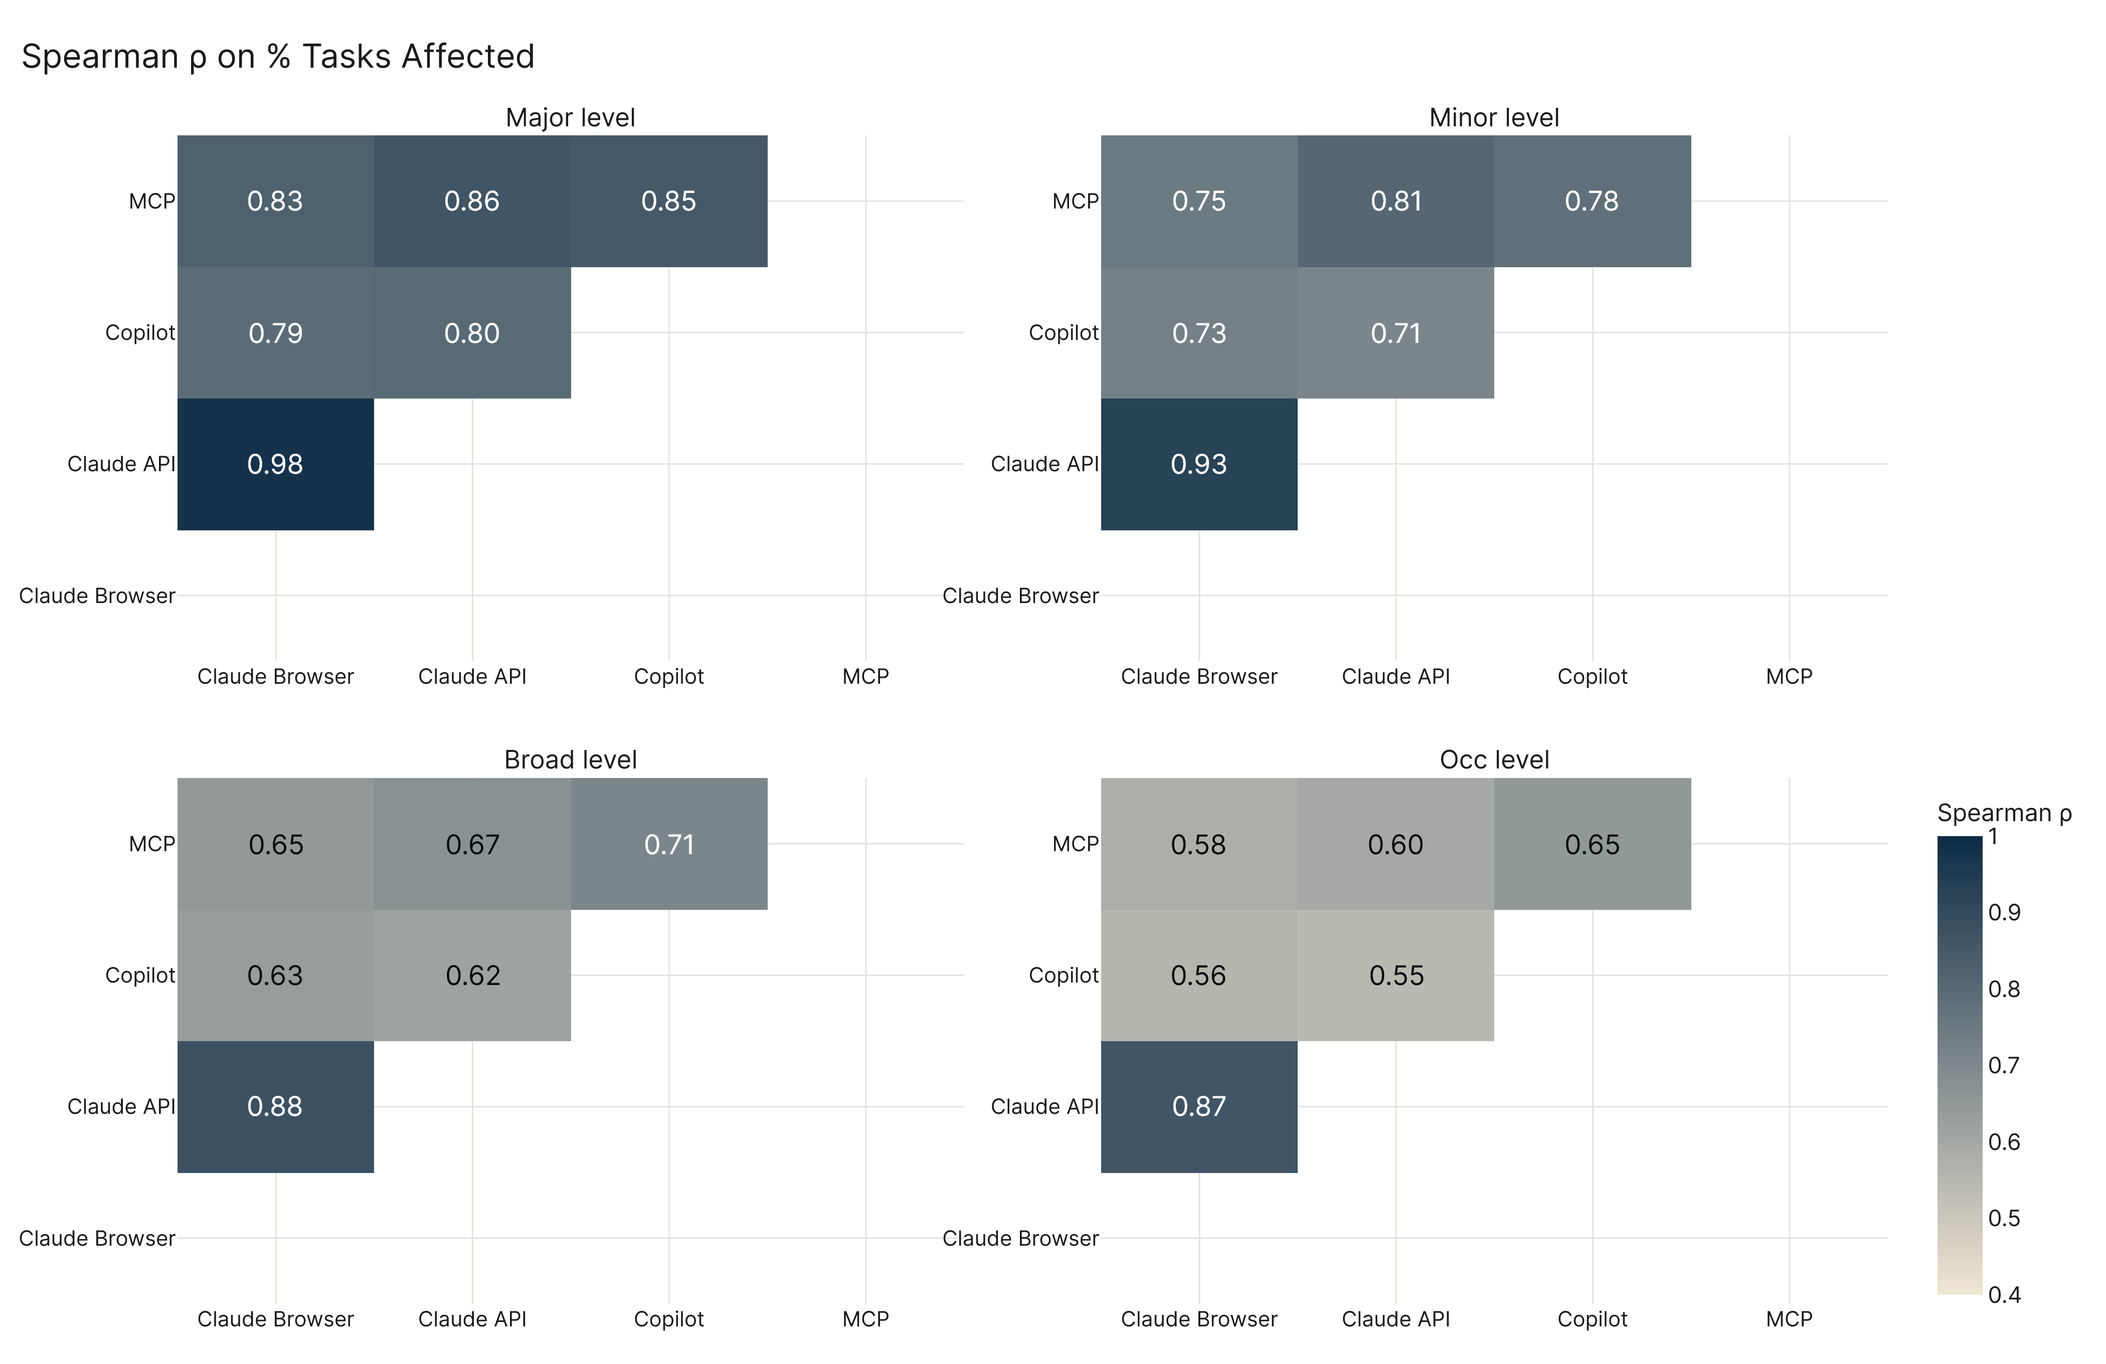
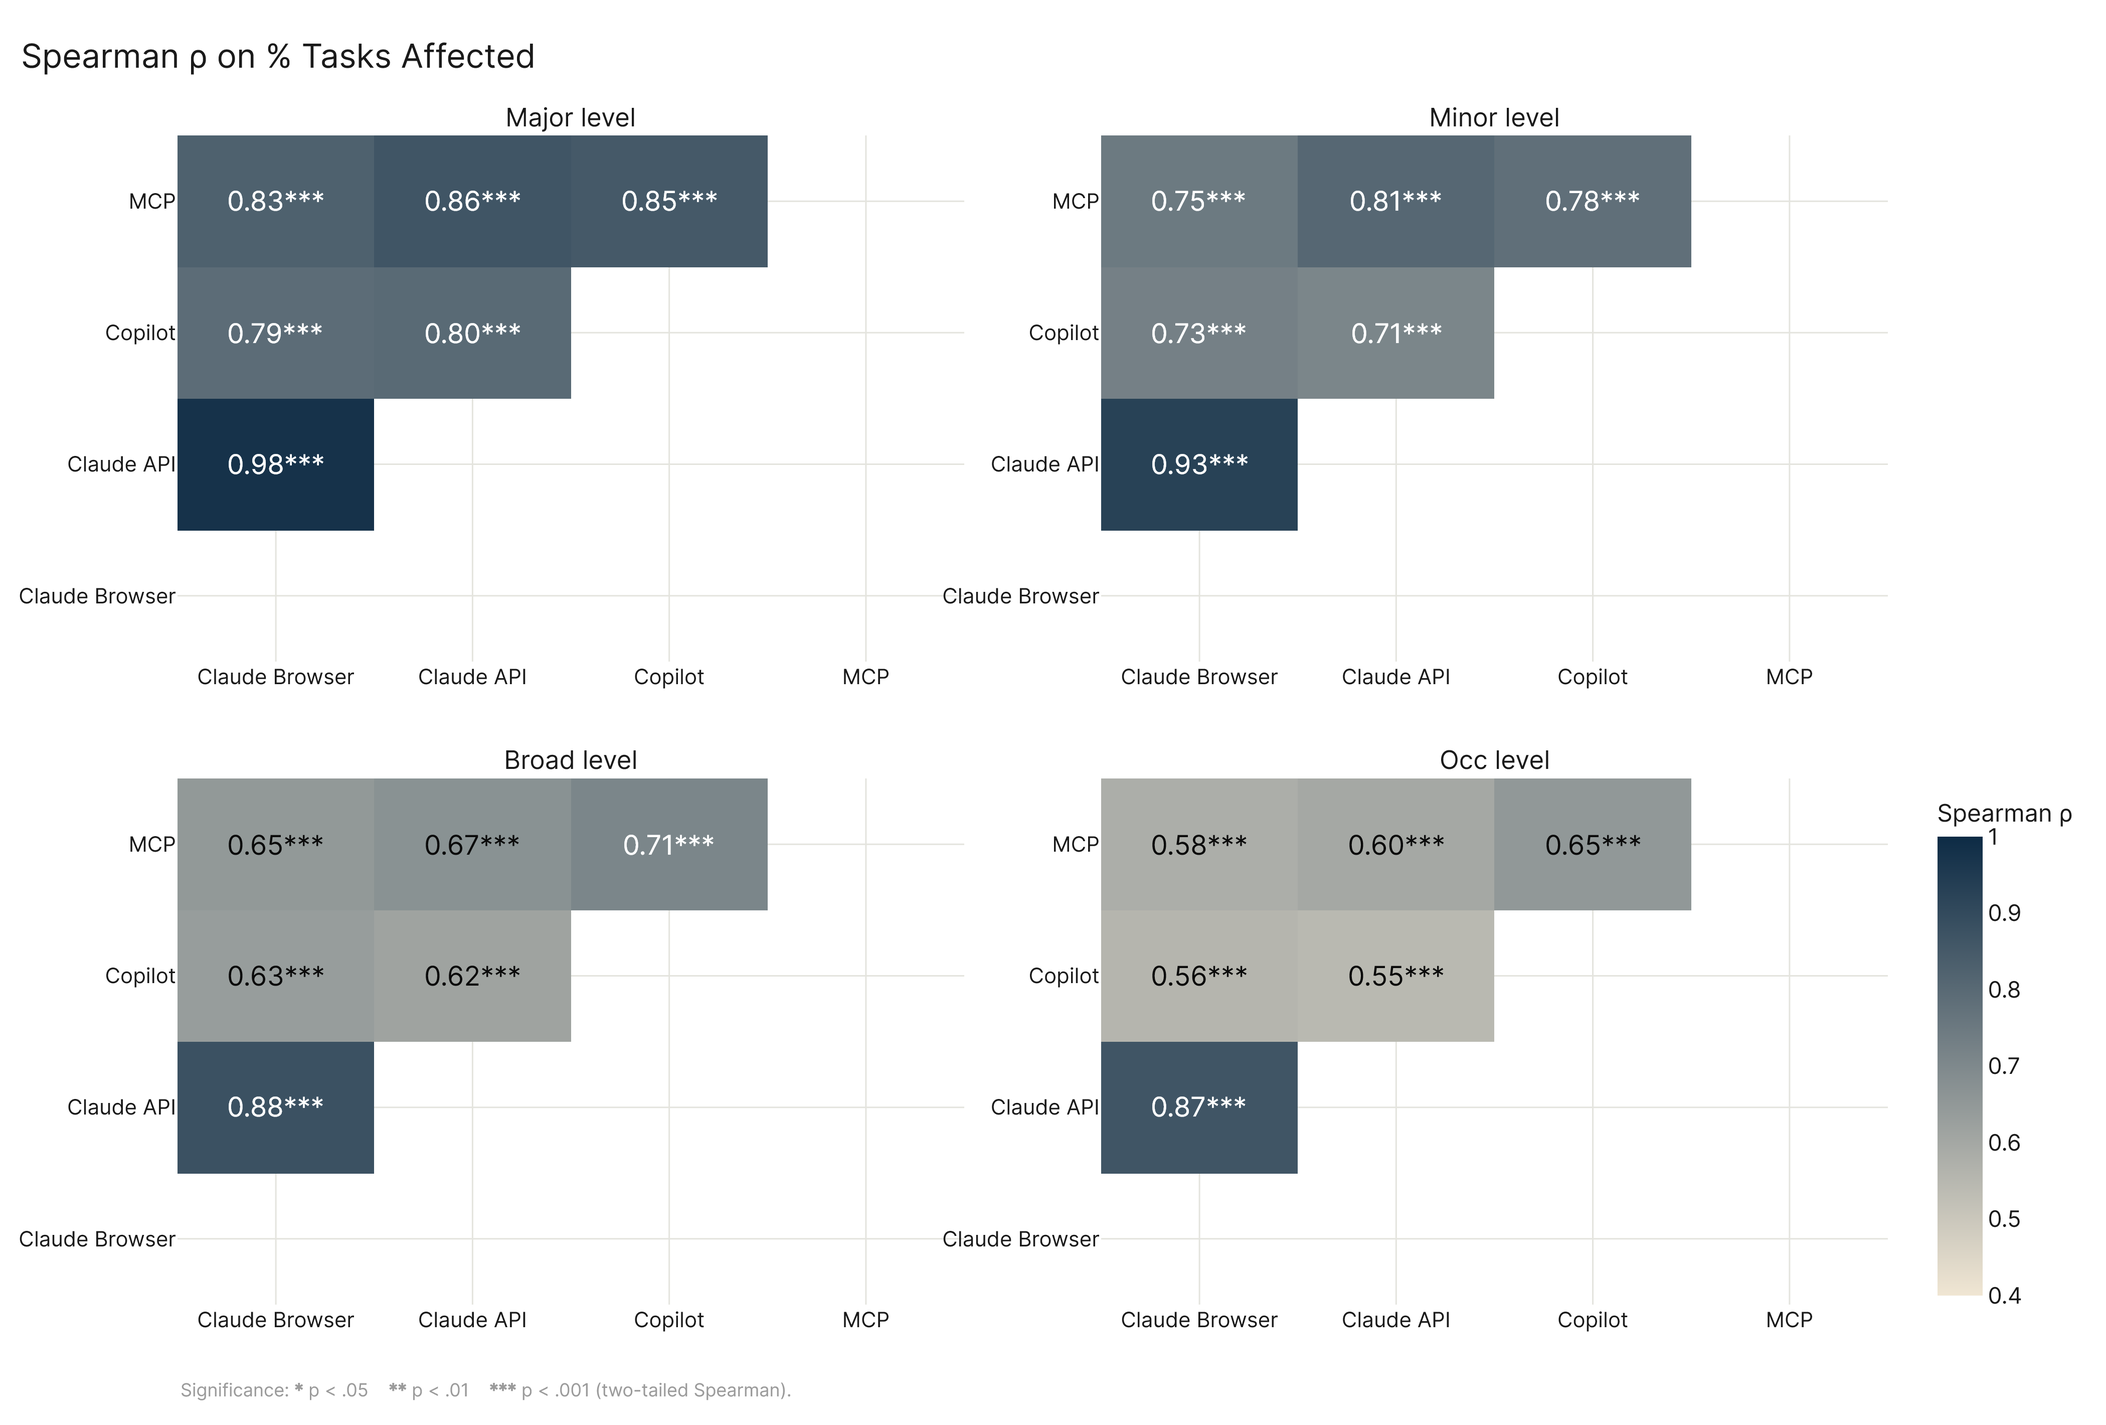
paper: add p-value asterisks to part_1 convergence charts; register external_indices_correlation exploratory
Cells in convergence.png and convergence_external.png now show significance
asterisks (* p<.05, ** p<.01, *** p<.001, two-tailed Spearman) alongside
the rho. Adds a footnote with the legend. Notable at the major level (n=22)
where the threshold for p<.001 is roughly rho=0.65 — every cell in part_1
clears it but the convention is now load-bearing for related analyses with
weaker correlations.

Also registers a new exploratory sub-folder external_indices_correlation/
in ANALYSIS_PRD and ANALYSIS_ARCHITECTURE: 9 internal sources/configs vs.
all 16 prior AI/automation indices in Comparison of Indices.csv at four
SOC levels, with diverging color scale (negative correlations are real
signal — pre-LLM physical-automation indices like Webb Robot and Frey-
Osborne anti-correlate strongly with our LLM-era measures). Folder itself
is gitignored per exploratory convention.

diff --git a/analysis/paper/results/part_1/run.py b/analysis/paper/results/part_1/run.py
@@ -158,6 +158,26 @@ def _copy_fig(results: Path, figures: Path, name: str) -> None:
     shutil.copy(results / "figures" / name, figures / name)
 
 
+def _stars(p: float) -> str:
+    """Standard significance asterisks for two-tailed correlation p-values."""
+    if not np.isfinite(p):
+        return ""
+    if p < 0.001:
+        return "***"
+    if p < 0.01:
+        return "**"
+    if p < 0.05:
+        return "*"
+    return ""
+
+
+SIG_FOOTNOTE: str = (
+    "Significance: <b>*</b> p &lt; .05  &nbsp; "
+    "<b>**</b> p &lt; .01  &nbsp; "
+    "<b>***</b> p &lt; .001 (two-tailed Spearman)."
+)
+
+
 # ─────────────────────────────────────────────────────────────────────────
 # Chart 1: Overview
 # ─────────────────────────────────────────────────────────────────────────
@@ -262,9 +282,11 @@ def build_convergence(results: Path, figures: Path) -> None:
 
     corr_records: list[dict] = []
     matrices: dict[str, np.ndarray] = {}
+    pmatrices: dict[str, np.ndarray] = {}
 
     for level in AGG_LEVELS:
         mat = np.full((n, n), np.nan)
+        pmat = np.full((n, n), np.nan)
         for i in range(n):
             for j in range(i):
                 si = source_data[CORR_ORDER[i]][level]
@@ -274,6 +296,7 @@ def build_convergence(results: Path, figures: Path) -> None:
                     continue
                 rho, pval = stats.spearmanr(merged.iloc[:, 0], merged.iloc[:, 1])
                 mat[i, j] = rho
+                pmat[i, j] = pval
                 corr_records.append({
                     "level": level,
                     "source_a": CORR_LABELS[i],
@@ -281,8 +304,10 @@ def build_convergence(results: Path, figures: Path) -> None:
                     "rho": round(float(rho), 3),
                     "p_value": round(float(pval), 6),
                     "n": len(merged),
+                    "stars": _stars(pval),
                 })
         matrices[level] = mat
+        pmatrices[level] = pmat
 
     save_csv(pd.DataFrame(corr_records), results / "spearman_by_level.csv")
 
@@ -297,6 +322,7 @@ def build_convergence(results: Path, figures: Path) -> None:
         row = idx // 2 + 1
         col = idx % 2 + 1
         mat = matrices[level]
+        pmat = pmatrices[level]
 
         fig.add_trace(
             go.Heatmap(
@@ -319,7 +345,8 @@ def build_convergence(results: Path, figures: Path) -> None:
             row=row, col=col,
         )
 
-        # Add cell annotations with conditional text color
+        # Add cell annotations with significance asterisks (sample size at
+        # major level is small — n=22 — so even rho=0.7 isn't always significant)
         for i in range(n):
             for j in range(n):
                 val = mat[i, j]
@@ -328,7 +355,7 @@ def build_convergence(results: Path, figures: Path) -> None:
                 txt_color = "white" if val >= 0.70 else PAPER_PALETTE["text_dark"]
                 fig.add_annotation(
                     x=CORR_LABELS[j], y=CORR_LABELS[i],
-                    text=f"{val:.2f}",
+                    text=f"{val:.2f}{_stars(pmat[i, j])}",
                     showarrow=False,
                     font=dict(size=HEATMAP_TEXT_FS, family=FONT_FAMILY, color=txt_color),
                     xref=f"x{idx + 1}" if idx > 0 else "x",
@@ -339,8 +366,17 @@ def build_convergence(results: Path, figures: Path) -> None:
         fig,
         "Spearman ρ on % Tasks Affected",
         width=PAPER_W,
-        height=PAPER_H + 120,
-        margin=dict(l=20, r=130, t=90, b=40),
+        height=PAPER_H + 160,
+        margin=dict(l=20, r=130, t=90, b=80),
+    )
+
+    fig.add_annotation(
+        text=SIG_FOOTNOTE,
+        xref="paper", yref="paper",
+        x=0, y=-0.06, xanchor="left", yanchor="top",
+        showarrow=False,
+        font=dict(size=ANNOT_FS, family=FONT_FAMILY,
+                  color=PAPER_PALETTE["muted"]),
     )
 
     # Style subplot titles — bigger font
@@ -501,9 +537,11 @@ def build_convergence_external(results: Path, figures: Path) -> None:
 
     corr_records: list[dict] = []
     matrices: dict[str, np.ndarray] = {}
+    pmatrices: dict[str, np.ndarray] = {}
 
     for level in AGG_LEVELS:
         mat = np.full((n_rows, n_cols), np.nan)
+        pmat = np.full((n_rows, n_cols), np.nan)
         for i, skey in enumerate(CORR_ORDER):
             ours = source_data[skey][level]
             for j, ext_key in enumerate(ext_keys):
@@ -516,6 +554,7 @@ def build_convergence_external(results: Path, figures: Path) -> None:
                     continue
                 rho, pval = stats.spearmanr(merged["x"], merged["y"])
                 mat[i, j] = rho
+                pmat[i, j] = pval
                 corr_records.append({
                     "level":      level,
                     "our_source": our_labels[i],
@@ -523,8 +562,10 @@ def build_convergence_external(results: Path, figures: Path) -> None:
                     "rho":        round(float(rho), 3),
                     "p_value":    round(float(pval), 6),
                     "n":          len(merged),
+                    "stars":      _stars(pval),
                 })
         matrices[level] = mat
+        pmatrices[level] = pmat
 
     save_csv(pd.DataFrame(corr_records), results / "spearman_external_by_level.csv")
 
@@ -539,6 +580,7 @@ def build_convergence_external(results: Path, figures: Path) -> None:
         row = idx // 2 + 1
         col = idx % 2 + 1
         mat = matrices[level]
+        pmat = pmatrices[level]
 
         fig.add_trace(
             go.Heatmap(
@@ -569,7 +611,7 @@ def build_convergence_external(results: Path, figures: Path) -> None:
                 txt_color = "white" if val >= 0.70 else PAPER_PALETTE["text_dark"]
                 fig.add_annotation(
                     x=ext_labels[j], y=our_labels[i],
-                    text=f"{val:.2f}",
+                    text=f"{val:.2f}{_stars(pmat[i, j])}",
                     showarrow=False,
                     font=dict(size=HEATMAP_TEXT_FS, family=FONT_FAMILY, color=txt_color),
                     xref=f"x{idx + 1}" if idx > 0 else "x",
@@ -580,8 +622,17 @@ def build_convergence_external(results: Path, figures: Path) -> None:
         fig,
         "Spearman ρ — Our Sources vs. External Benchmarks",
         width=PAPER_W,
-        height=PAPER_H + 120,
-        margin=dict(l=20, r=130, t=90, b=40),
+        height=PAPER_H + 200,
+        margin=dict(l=20, r=130, t=90, b=120),
+    )
+
+    fig.add_annotation(
+        text=SIG_FOOTNOTE,
+        xref="paper", yref="paper",
+        x=0, y=-0.10, xanchor="left", yanchor="top",
+        showarrow=False,
+        font=dict(size=ANNOT_FS, family=FONT_FAMILY,
+                  color=PAPER_PALETTE["muted"]),
     )
 
     agg_title_set = set(AGG_TITLES.values())

diff --git a/analysis/ANALYSIS_PRD.md b/analysis/ANALYSIS_PRD.md
@@ -378,6 +378,7 @@ The `<name>_report.md` is the primary deliverable. It should read like a short a
 | `physical_informational_divide/` | Physical vs. informational occupation split (<33%/>67% thresholds); structural task distributions (GWA/IWA/DWA); AI exposure: pct distribution, IWA workers concentration, auto-aug breakdown by task type × coverage × dataset (Confirmed/Ceiling), GWA concentration curve, auto-aug vs. pct scatter |
 | `aioe_comparison/` | Felten/Raj/Seamans AIOE 52×10 matrix vs. our pct_tasks_affected. Per-occ AIOE score = sum(imp×lv×ability_cap)/sum(imp×lv) on imp≥3 rows, 3 variants (mean-10, Language Modeling only, Reading Comprehension only). 18 charts: occ-level scatter, SOC-level convergence (focused + all-sources), 4-aggregate-panel ability ranking (sorted by mean/RC/LM), per-ability SKA aggregates vs AIOE, per-AI-app ρ breakdown at 3 SKA aggregates |
 | `pct_norm_vs_eco/` | AI usage distribution (Σ `pct_normalized`) vs. economic baseline, renormalized to 100%. Overhauled: 2 configs (`all_confirmed`, `aei_all_usage`) × 7 levels (major/minor/broad/occ/gwa/iwa/dwa) × 2 eco scopes (config-scoped vs. full eco_2025) × 5 bias variants (`no_bias`, `equal` 3-source consensus, `chatgpt_2x/5x/10x`). Bias correction: `bias_ratio[gwa] = claude_share / consensus_share` using fixed AEI/Copilot/ChatGPT GWA distributions; each task's pct divided by its GWA's ratio (averaged across GWAs for multi-mapped tasks). Coverage: GWA + major get all bias × both configs × both eco; other levels are `all_confirmed` + equal bias + both eco. 100 PNGs. V2 (`run_v2.py` + v2 report) replaces delta framing with 20 **AI-intensity-ranking** charts: per-cat ratio = Σ pct (bias-corrected) / Σ (freq×emp), renormalized to 100%; 8 base levels (major/minor/broad/occ/gwa/iwa/dwa/task, rated-task denominator), +2 ChatGPT-5× variants on major + gwa, +2 full-eco variants on major + gwa, +4 auto_aug-weighted variants on major + gwa × both eco scopes (pct × auto_aug_mean/5 applied per row), +4 smoothing variants (sqrt and additive α=median(den)). Plus `major_diagnostics.csv` and `major_raw_numerator.png` for per-major task counts, eco coverage, and raw Σ pct with/without auto_aug. |
+| `external_indices_correlation/` | Spearman ρ of our 4 internal sources + 5 ANALYSIS_CONFIGS (9 rows) against all 16 external AI/automation exposure indices in `Comparison of Indices.csv` (AIOE alt-weights, Eloundou α/β/γ, Webb software/robot/ai, SML, AIOE base felten, Frey-Osborne, Autor routine cog/manual). Four SOC levels (major/minor/broad/occupation), pairwise dropna per cell, diverging color scale (negative ρ matters — Webb Robot, Routine Manual, Frey-Osborne anti-correlate strongly with our LLM-era measures), significance asterisks (`*` p<.05, `**` p<.01, `***` p<.001). One PNG + 2 CSVs (long-form 576 records + per-(level, internal) summary). |
 | `claude_lab/` | Claude's autonomous research workspace on the AEA Dashboard data. Operates independently of the rest of the analysis system — Claude picks threads, runs investigations, and documents findings as a researcher would, without being directed toward specific paper chapters. Has its own `CLAUDE.md` agent spec, `research_log.md` rolling synthesis (single shareable artifact, updated every session), `INVENTORY.md` meta log, `lib/` for shared helpers, and one named sub-folder per research thread. Each thread follows the standard pattern (`run.py`, `results/`, `notes.md`, optional `<topic>_report.md`). Findings that feel paper-relevant are flagged in `research_log.md`; promotion to `paper/` is gated by the user, not by Claude. Folder used to be called `action_levers/` (its seed run); the seed sub-folder `initial_action_charts/` retains that name and produces six charts on what to do about widespread exposure (complementarity quadrant, sectoral velocity, wage cliff matrix, resilience differential, trade-up corridors, bottleneck activity atlas). |
 
 ---

diff --git a/analysis/paper/results/part_1/part_1.md b/analysis/paper/results/part_1/part_1.md
@@ -28,6 +28,8 @@ The agreement degrades as you zoom in. At the occupation level (923 categories),
 
 Six major categories land in the high-exposure tier across all four sources: Computer and Mathematical, Office and Administrative Support, Sales, Business and Financial Operations, Arts and Design, and Life/Physical/Social Science. Ten major categories show consistently low exposure across every source: construction, farming, food prep, both healthcare groups, installation and maintenance, personal care, production, protective service, and transportation. The sources agree as strongly on what AI doesn't touch as on what it does, and that double consensus is the clearest signal the framework is tracking something real about which kinds of work current AI engages with.
 
+Cells are annotated with significance asterisks (`*` p<.05, `**` p<.01, `***` p<.001, two-tailed Spearman). At the major level (n = 22 SOC categories), the threshold for p < .001 lands at roughly ρ = 0.65 — every cell in this chart clears that bar. At the occupation level (n ≈ 900), the bar drops to ρ ≈ 0.10, so significance carries less interpretive weight there.
+
 ---
 
 ## External Convergence
@@ -41,6 +43,8 @@ The rankings do agree. At the major category level, the sixteen cells (four inte
 The strongest row is MCP, which agrees most closely with Eloundou's ratings (0.92 with GPT-4 β, 0.93 with Human β at major; 0.77 and 0.73 at occupation). This makes sense given what each thing measures: MCP captures what AI tools can functionally do (tool integration specs), and the Eloundou rubric scores capability overlap with LLMs. Both are assessments of potential exposure, not observed usage. The weakest row is Copilot, which runs 0.67–0.78 at major and drops to 0.52–0.64 at occupation. That's the row where Microsoft's enterprise assessment disagrees most with the academic benchmarks. It still correlates strongly in an absolute sense, but Copilot's signal comes from inside Microsoft's own productivity-software lens, and that lens weights differently from either the Eloundou rubric or the AIOE ability profile. It's also worth noting that AIOE Reading Comprehension correlates with our sources about as well as AIOE mean does, sometimes slightly better. For modern LLM-era exposure ranking, the single reading-comprehension column carries more of the signal than an average that includes nine older AI applications.
 
 The upshot: two research groups using completely different scoring frameworks (GPT-4 and human judgment on exposure rubrics; ability-to-AI-application overlap) arrived at rankings that look like ours. Our framework is reproducing a structural pattern that independent academic work has already found, not an artifact of the specific data sources or methodology we used.
+
+Cells are annotated with significance asterisks (same convention as the internal convergence chart). Every cell here clears p < .001 because the smallest ρ is 0.67 and the smallest n is 22 (major level) — well past threshold.
 
 ---
 

diff --git a/analysis/ANALYSIS_ARCHITECTURE.md b/analysis/ANALYSIS_ARCHITECTURE.md
@@ -176,6 +176,16 @@ analysis/
     │                              sub-folders pursue whatever Claude finds worth
     │                              investigating. Promotion to paper/ is gated by the
     │                              user.
+    ├── external_indices_correlation/ — Spearman ρ of our 4 internal sources +
+    │                              5 ANALYSIS_CONFIGS (9 rows) against all 16
+    │                              external AI/automation exposure indices in
+    │                              `Comparison of Indices.csv` (AIOE alt-weights,
+    │                              Eloundou α/β/γ, Webb software/robot/ai, SML,
+    │                              AIOE base felten, Frey-Osborne, Autor routine
+    │                              cog/manual). Four SOC levels stacked vertically,
+    │                              pairwise dropna per cell, diverging color scale,
+    │                              significance asterisks. One PNG + 576-row long-form
+    │                              CSV + per-(level, internal) summary CSV.
     └── pct_norm_vs_eco/         — AI usage distribution (Σ pct_normalized) vs. economic
                                    baseline (freq×emp / freq-allocated emp), renormalized
                                    to 100%. Overhauled: two configs (all_confirmed and
